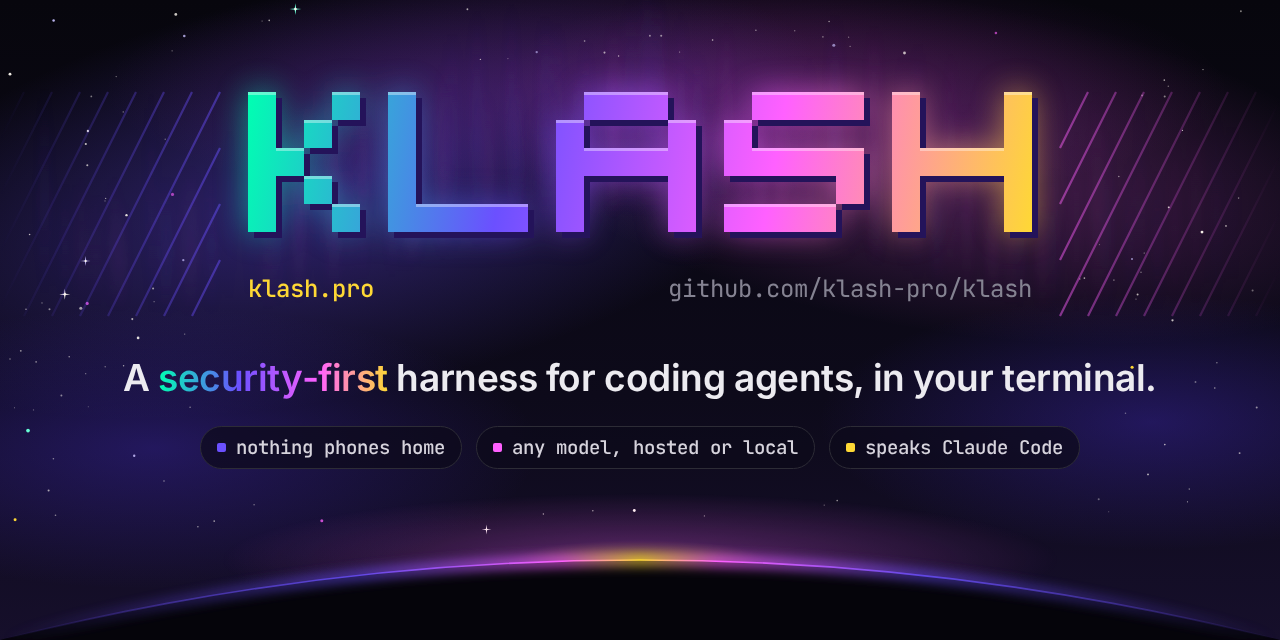
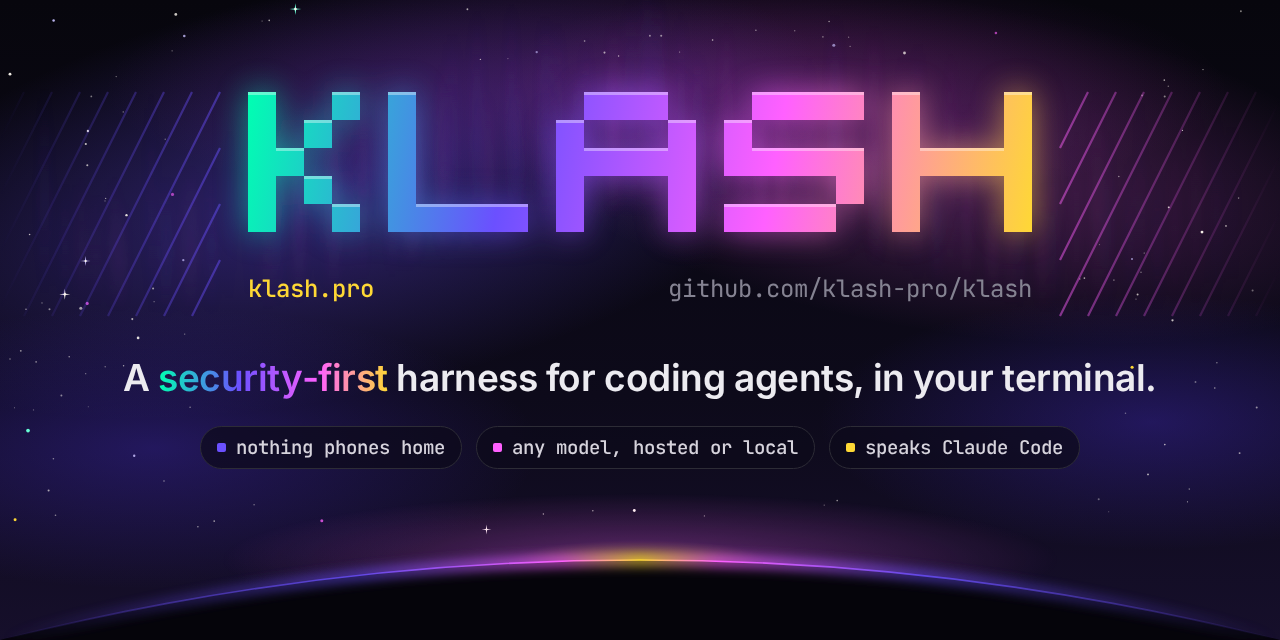
docs: no drop shadow under the brand art's KLASH
Jae: "klash.pro shows a shadow for the word letters KLASH.... in space
doesn't make sense... remove the shadow. also in the avatar." The dark
copy offset under the letters is gone from the banner, social card,
sign-off and avatar; the word keeps its glow and lit top edges.

diff --git a/docs/brand/og.html b/docs/brand/og.html
@@ -36,7 +36,7 @@ html,body{width:1280px;height:640px;overflow:hidden;background:#07060D}
 <path d="M-4 148L24 92M24 148L52 92M52 148L80 92M80 148L108 92M108 148L136 92M136 148L164 92M164 148L192 92M192 148L220 92M-4 204L24 148M24 204L52 148M52 204L80 148M80 204L108 148M108 204L136 148M136 204L164 148M164 204L192 148M192 204L220 148M-4 260L24 204M24 260L52 204M52 260L80 204M80 260L108 204M108 260L136 204M136 260L164 204M164 260L192 204M192 260L220 204M-4 316L24 260M24 316L52 260M52 316L80 260M80 316L108 260M108 316L136 260M136 316L164 260M164 316L192 260M192 316L220 260M1060 148L1088 92M1088 148L1116 92M1116 148L1144 92M1144 148L1172 92M1172 148L1200 92M1200 148L1228 92M1228 148L1256 92M1256 148L1284 92M1060 204L1088 148M1088 204L1116 148M1116 204L1144 148M1144 204L1172 148M1172 204L1200 148M1200 204L1228 148M1228 204L1256 148M1256 204L1284 148M1060 260L1088 204M1088 260L1116 204M1116 260L1144 204M1144 260L1172 204M1172 260L1200 204M1200 260L1228 204M1228 260L1256 204M1256 260L1284 204M1060 316L1088 260M1088 316L1116 260M1116 316L1144 260M1144 316L1172 260M1172 316L1200 260M1200 316L1228 260M1228 316L1256 260M1256 316L1284 260" stroke="url(#field)" stroke-width="2.2" fill="none"/>
 <text x="248" y="297" font-family="JetBrains Mono,SFMono-Regular,Menlo,Consolas,'Liberation Mono','DejaVu Sans Mono',monospace" font-weight="500" font-size="24" fill="#FED835">klash.pro</text>
 <text x="1032" y="297" text-anchor="end" font-family="JetBrains Mono,SFMono-Regular,Menlo,Consolas,'Liberation Mono','DejaVu Sans Mono',monospace" font-size="24" fill="#858392">github.com/klash-pro/klash</text>
-<path d="M248 92h28v28h-28zM332 92h28v28h-28zM388 92h28v28h-28zM584 92h84v28h-84zM752 92h112v28h-112zM892 92h28v28h-28zM1004 92h28v28h-28zM248 120h28v28h-28zM304 120h28v28h-28zM388 120h28v28h-28zM556 120h28v28h-28zM668 120h28v28h-28zM724 120h28v28h-28zM892 120h28v28h-28zM1004 120h28v28h-28zM248 148h56v28h-56zM388 148h28v28h-28zM556 148h140v28h-140zM724 148h140v28h-140zM892 148h140v28h-140zM248 176h28v28h-28zM304 176h28v28h-28zM388 176h28v28h-28zM556 176h28v28h-28zM668 176h28v28h-28zM836 176h28v28h-28zM892 176h28v28h-28zM1004 176h28v28h-28zM248 204h28v28h-28zM332 204h28v28h-28zM388 204h140v28h-140zM556 204h28v28h-28zM668 204h28v28h-28zM724 204h112v28h-112zM892 204h28v28h-28zM1004 204h28v28h-28z" fill="url(#word)" filter="url(#glow)" opacity=".6"/><path d="M254 98h28v28h-28zM338 98h28v28h-28zM394 98h28v28h-28zM590 98h84v28h-84zM758 98h112v28h-112zM898 98h28v28h-28zM1010 98h28v28h-28zM254 126h28v28h-28zM310 126h28v28h-28zM394 126h28v28h-28zM562 126h28v28h-28zM674 126h28v28h-28zM730 126h28v28h-28zM898 126h28v28h-28zM1010 126h28v28h-28zM254 154h56v28h-56zM394 154h28v28h-28zM562 154h140v28h-140zM730 154h140v28h-140zM898 154h140v28h-140zM254 182h28v28h-28zM310 182h28v28h-28zM394 182h28v28h-28zM562 182h28v28h-28zM674 182h28v28h-28zM842 182h28v28h-28zM898 182h28v28h-28zM1010 182h28v28h-28zM254 210h28v28h-28zM338 210h28v28h-28zM394 210h140v28h-140zM562 210h28v28h-28zM674 210h28v28h-28zM730 210h112v28h-112zM898 210h28v28h-28zM1010 210h28v28h-28z" fill="#24135A"/><path d="M248 92h28v28h-28zM332 92h28v28h-28zM388 92h28v28h-28zM584 92h84v28h-84zM752 92h112v28h-112zM892 92h28v28h-28zM1004 92h28v28h-28zM248 120h28v28h-28zM304 120h28v28h-28zM388 120h28v28h-28zM556 120h28v28h-28zM668 120h28v28h-28zM724 120h28v28h-28zM892 120h28v28h-28zM1004 120h28v28h-28zM248 148h56v28h-56zM388 148h28v28h-28zM556 148h140v28h-140zM724 148h140v28h-140zM892 148h140v28h-140zM248 176h28v28h-28zM304 176h28v28h-28zM388 176h28v28h-28zM556 176h28v28h-28zM668 176h28v28h-28zM836 176h28v28h-28zM892 176h28v28h-28zM1004 176h28v28h-28zM248 204h28v28h-28zM332 204h28v28h-28zM388 204h140v28h-140zM556 204h28v28h-28zM668 204h28v28h-28zM724 204h112v28h-112zM892 204h28v28h-28zM1004 204h28v28h-28z" fill="url(#word)"/><path d="M248 92h28v3h-28zM332 92h28v3h-28zM388 92h28v3h-28zM584 92h84v3h-84zM752 92h112v3h-112zM892 92h28v3h-28zM1004 92h28v3h-28zM304 120h28v3h-28zM556 120h28v3h-28zM668 120h28v3h-28zM724 120h28v3h-28zM276 148h28v3h-28zM584 148h84v3h-84zM752 148h112v3h-112zM920 148h84v3h-84zM304 176h28v3h-28zM332 204h28v3h-28zM416 204h112v3h-112zM724 204h112v3h-112z" fill="#fff" opacity=".38"/>
+<path d="M248 92h28v28h-28zM332 92h28v28h-28zM388 92h28v28h-28zM584 92h84v28h-84zM752 92h112v28h-112zM892 92h28v28h-28zM1004 92h28v28h-28zM248 120h28v28h-28zM304 120h28v28h-28zM388 120h28v28h-28zM556 120h28v28h-28zM668 120h28v28h-28zM724 120h28v28h-28zM892 120h28v28h-28zM1004 120h28v28h-28zM248 148h56v28h-56zM388 148h28v28h-28zM556 148h140v28h-140zM724 148h140v28h-140zM892 148h140v28h-140zM248 176h28v28h-28zM304 176h28v28h-28zM388 176h28v28h-28zM556 176h28v28h-28zM668 176h28v28h-28zM836 176h28v28h-28zM892 176h28v28h-28zM1004 176h28v28h-28zM248 204h28v28h-28zM332 204h28v28h-28zM388 204h140v28h-140zM556 204h28v28h-28zM668 204h28v28h-28zM724 204h112v28h-112zM892 204h28v28h-28zM1004 204h28v28h-28z" fill="url(#word)" filter="url(#glow)" opacity=".6"/><path d="M248 92h28v28h-28zM332 92h28v28h-28zM388 92h28v28h-28zM584 92h84v28h-84zM752 92h112v28h-112zM892 92h28v28h-28zM1004 92h28v28h-28zM248 120h28v28h-28zM304 120h28v28h-28zM388 120h28v28h-28zM556 120h28v28h-28zM668 120h28v28h-28zM724 120h28v28h-28zM892 120h28v28h-28zM1004 120h28v28h-28zM248 148h56v28h-56zM388 148h28v28h-28zM556 148h140v28h-140zM724 148h140v28h-140zM892 148h140v28h-140zM248 176h28v28h-28zM304 176h28v28h-28zM388 176h28v28h-28zM556 176h28v28h-28zM668 176h28v28h-28zM836 176h28v28h-28zM892 176h28v28h-28zM1004 176h28v28h-28zM248 204h28v28h-28zM332 204h28v28h-28zM388 204h140v28h-140zM556 204h28v28h-28zM668 204h28v28h-28zM724 204h112v28h-112zM892 204h28v28h-28zM1004 204h28v28h-28z" fill="url(#word)"/><path d="M248 92h28v3h-28zM332 92h28v3h-28zM388 92h28v3h-28zM584 92h84v3h-84zM752 92h112v3h-112zM892 92h28v3h-28zM1004 92h28v3h-28zM304 120h28v3h-28zM556 120h28v3h-28zM668 120h28v3h-28zM724 120h28v3h-28zM276 148h28v3h-28zM584 148h84v3h-84zM752 148h112v3h-112zM920 148h84v3h-84zM304 176h28v3h-28zM332 204h28v3h-28zM416 204h112v3h-112zM724 204h112v3h-112z" fill="#fff" opacity=".38"/>
 </svg></div>
 <div class="wrap">
   <div class="tag">A <b>security-first</b> harness for coding agents, in your terminal.</div>

diff --git a/scripts/brand.py b/scripts/brand.py
@@ -45,7 +45,6 @@ PURPLE = "#6B50FF"
 PINK = "#FF60FF"
 MAGENTA = "#C337E0"
 DEEP = "#4A30D9"
-DEPTH = "#24135A"
 GOLD = "#FED835"
 AMBER = "#FEA408"
 MINT = "#68FFD6"
@@ -258,15 +257,13 @@ def word_defs(x0, y0, word_w, word_h, stops=NEBULA, gid="word"):
     )
 
 
-def word_layers(on, x0, y0, p, glow=True, depth=True, bevel=True):
-    """Glow, depth, face and a lit top edge for a pixel word."""
+def word_layers(on, x0, y0, p, glow=True, bevel=True):
+    """Glow, face and a lit top edge for a pixel word. No drop shadow: the
+    word floats in space, with nothing behind it to cast one on."""
     face = runs_path(on, x0, y0, p)
     o = []
     if glow:
         o.append(f'<path d="{face}" fill="url(#word)" filter="url(#glow)" opacity=".6"/>')
-    if depth:
-        off = max(2, round(p * 0.21))
-        o.append(f'<path d="{runs_path(on, x0 + off, y0 + off, p)}" fill="{DEPTH}"/>')
     o.append(f'<path d="{face}" fill="url(#word)"/>')
     if bevel:
         o.append(f'<path d="{runs_path(top_edges(on), x0, y0, p, h=min(3, max(1.5, p / 8)))}" fill="#fff" opacity=".38"/>')
